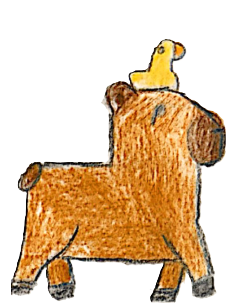
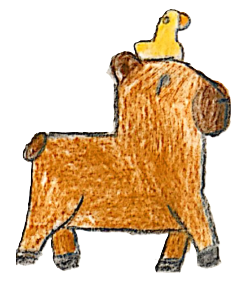
sprite animation

diff --git a/src/engine/example_game.py b/src/engine/example_game.py
@@ -64,20 +64,20 @@ class CapybaraGame(Game):
         # IMPORTANT: Update these IDs to match your actual Nextion picture resources!
 
         # Example mapping (adjust based on your import order):
-        # Walk frames: IDs 0-11 (12 frames from 4x3 grid)
-        walk_frame_ids = list(range(0, 12))
+        # Walk frames: IDs 0-3 (4 frames from 4x1 grid)
+        walk_frame_ids = list(range(0, 3))
 
-        # Run frames: IDs 12-23 (12 frames from 4x3 grid)
-        run_frame_ids = list(range(12, 24))
+        # Run frames: IDs 4-7 (4 frames from 4x1 grid)
+        run_frame_ids = list(range(4, 7))
 
-        # Jump frames: IDs 24-35 (12 frames from 4x3 grid)
-        jump_frame_ids = list(range(24, 36))
+        # Jump frames: IDs 8-11 (4 frames from 4x1 grid)
+        jump_frame_ids = list(range(8, 11))
 
         # Create animations
         idle_anim = Animation("idle", frame_ids=[0], fps=1, loop=True)
-        walk_anim = Animation("walk", frame_ids=walk_frame_ids, fps=10, loop=True)
-        run_anim = Animation("run", frame_ids=run_frame_ids, fps=15, loop=True)
-        jump_anim = Animation("jump", frame_ids=jump_frame_ids, fps=12, loop=False)
+        walk_anim = Animation("walk", frame_ids=walk_frame_ids, fps=4, loop=True)
+        run_anim = Animation("run", frame_ids=run_frame_ids, fps=4, loop=True)
+        jump_anim = Animation("jump", frame_ids=jump_frame_ids, fps=4, loop=False)
 
         # Add animations to sprite
         capybara.add_animation(idle_anim)
@@ -130,6 +130,12 @@ class CapybaraGame(Game):
             self.capybara_velocity_x = self.walk_speed
             if not self.is_jumping and capybara.current_animation.name != "walk":
                 capybara.play("walk")
+
+        elif self.game_input.is_pressed("idle"):
+            # Idle
+            self.capybara_velocity_x = 0
+            if not self.is_jumping and capybara.current_animation.name not in ["idle"]:
+                capybara.play("idle")
 
         else:
             # Idle (no movement input)

diff --git a/src/engine/nextion.py b/src/engine/nextion.py
@@ -80,6 +80,7 @@ class NextionDisplay:
             with self._lock:
                 full_command = command.encode() + self.CMD_END
                 self.ser.write(full_command)
+                print(f"Sent command: {command}")
                 return True
         except serial.SerialException as e:
             print(f"Error sending command: {e}")
@@ -189,7 +190,9 @@ class NextionDisplay:
         try:
             with self._lock:
                 if self.ser.in_waiting > 0:
-                    return self.ser.read(min(self.ser.in_waiting, max_bytes))
+                    data = self.ser.read(min(self.ser.in_waiting, max_bytes))
+                    print(f"Received data: {data}")
+                    return data
         except serial.SerialException as e:
             print(f"Error reading data: {e}")
 
@@ -215,6 +218,7 @@ class NextionDisplay:
                     self.ser.timeout = timeout
                 data = self.ser.read_until(self.CMD_END)
                 self.ser.timeout = old_timeout
+                print(f"Received data: {data}")
                 return data
         except serial.SerialException as e:
             print(f"Error reading data: {e}")

diff --git a/src/engine/input.py b/src/engine/input.py
@@ -59,7 +59,7 @@ class InputHandler:
             term_index = self.buffer.find(b"\xff\xff\xff")
             message = self.buffer[:term_index]
             self.buffer = self.buffer[term_index + 3:]
-
+            print(f"Processing message: {message}")
             # Process the message
             self._handle_message(message)
 
@@ -76,7 +76,7 @@ class InputHandler:
         try:
             # Try to decode as text (for custom print commands)
             msg_str = message.decode('latin1').strip()
-
+            print(f"Decoded message: {msg_str}")
             # Check if any registered callbacks match
             for event_name, callback in self.callbacks.items():
                 if event_name in msg_str:

diff --git a/src/engine/game.py b/src/engine/game.py
@@ -148,6 +148,10 @@ class Game:
             elif self.game_input.is_just_pressed("run"):
                 capybara.play("run")
 
+            # Handle idle button
+            elif self.game_input.is_just_pressed("idle"):
+                capybara.play("idle")
+
             # Return to idle after non-looping animation
             if capybara.is_animation_finished():
                 capybara.play("idle")
